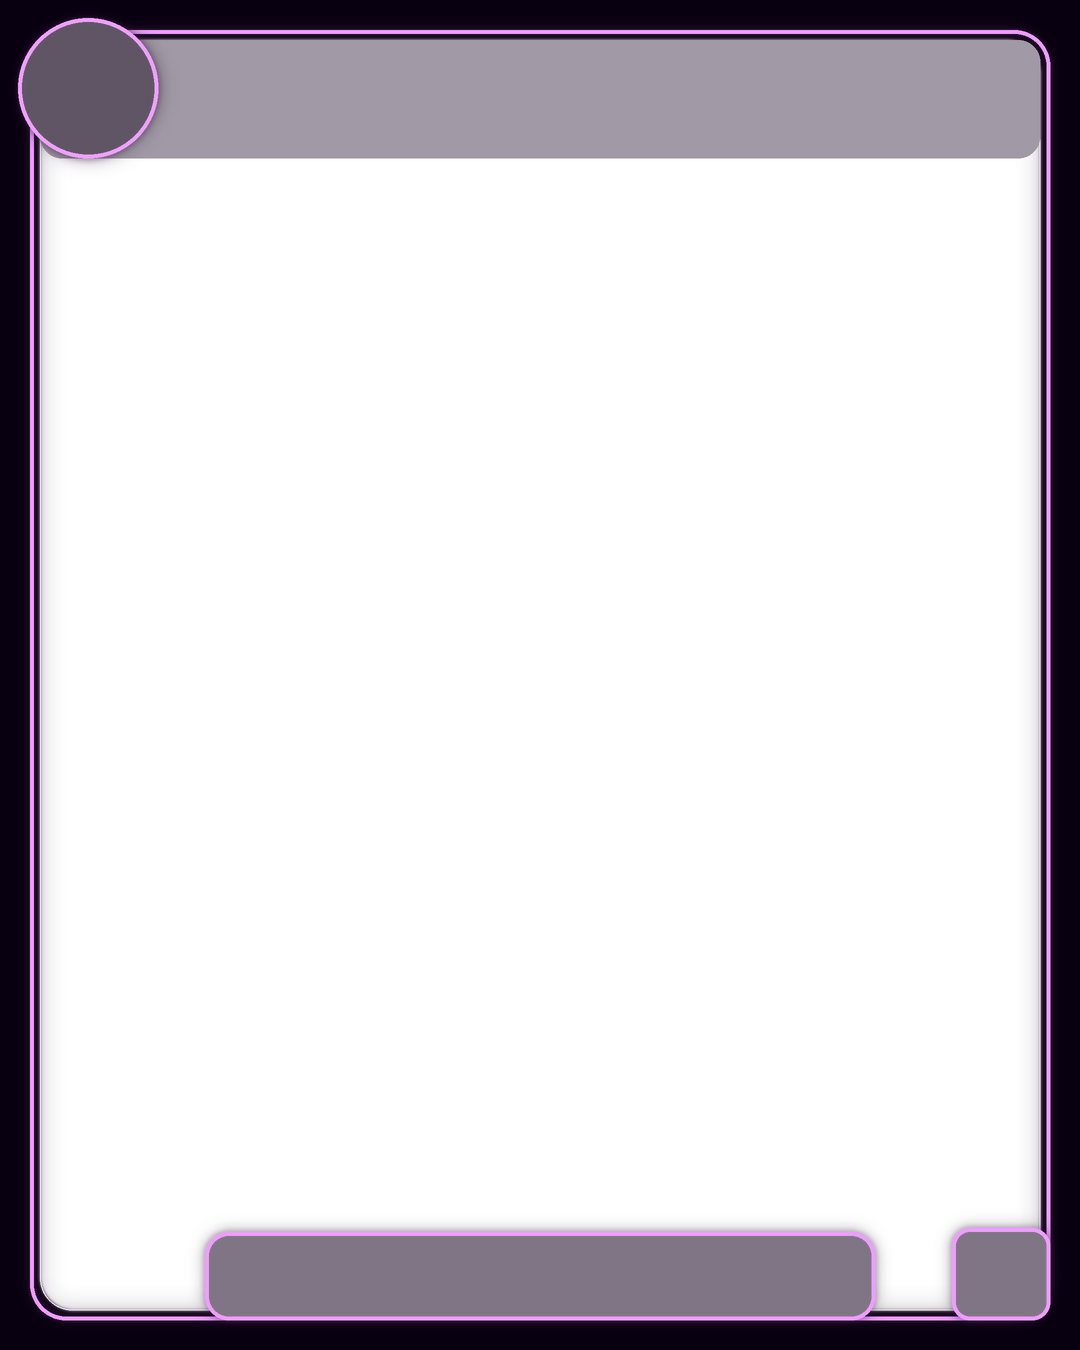
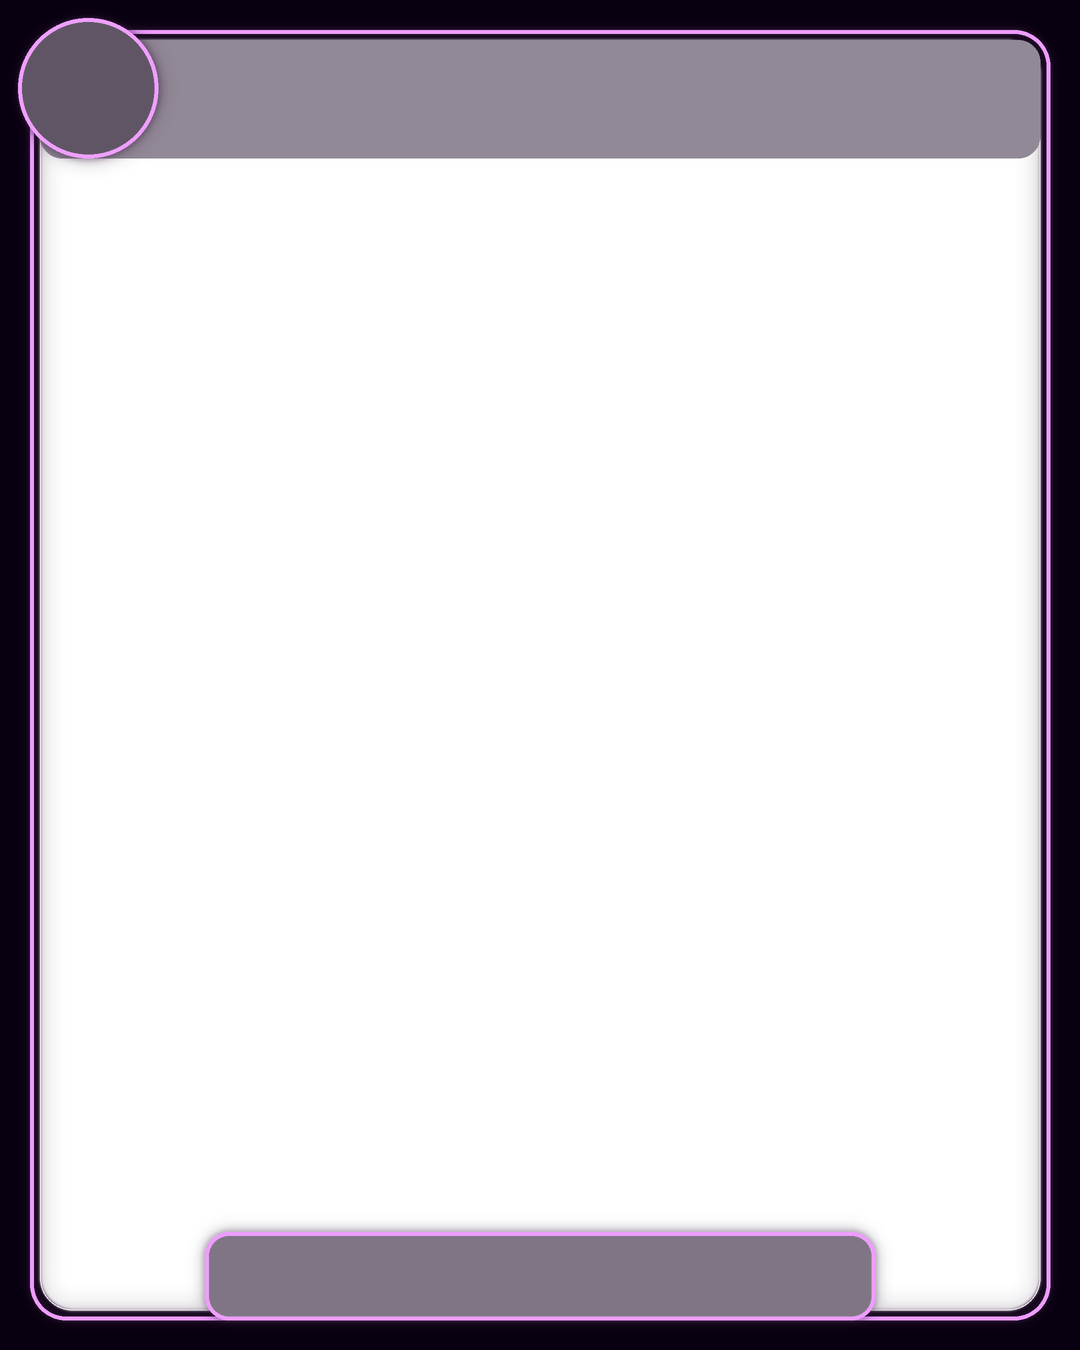
v15 renderer

Changed region(s): [[0.8556, 0.9022, 0.9778, 0.9956]]

diff --git a/includes/photo-uploads.php b/includes/photo-uploads.php
@@ -671,24 +671,6 @@ function photo_render_framed_image($sourcePath, $destPath, $event, $orientation 
         $logoY = $landscape ? 30 : 30;
         $canvas->compositeImage($logo, Imagick::COMPOSITE_OVER, $logoX, $logoY);
 
-        $qr = new Imagick($qrPath);
-        $qrSize = $landscape ? 64 : 60;
-        $qr->resizeImage($qrSize, $qrSize, Imagick::FILTER_POINT, 1, true);
-        $qrPad = 8;
-        $qrHolder = new Imagick();
-        $holderW = $qrSize + ($qrPad * 2);
-        $holderH = $qrSize + ($qrPad * 2);
-        $qrHolder->newImage($holderW, $holderH, new ImagickPixel('transparent'));
-        $holderDraw = new ImagickDraw();
-        $holderDraw->setFillColor(new ImagickPixel('white'));
-        $holderDraw->setStrokeColor(new ImagickPixel('white'));
-        $holderDraw->roundRectangle(0, 0, $holderW - 1, $holderH - 1, 10, 10);
-        $qrHolder->drawImage($holderDraw);
-        $qrHolder->compositeImage($qr, Imagick::COMPOSITE_OVER, $qrPad, $qrPad);
-        $qrX = $landscape ? 1476 : 963;
-        $qrY = $landscape ? 1078 : 1236;
-        $canvas->compositeImage($qrHolder, Imagick::COMPOSITE_OVER, $qrX, $qrY);
-
         $fontBold = photo_imagick_font_path(true);
         $fontRegular = photo_imagick_font_path(false);
 
@@ -696,18 +678,21 @@ function photo_render_framed_image($sourcePath, $destPath, $event, $orientation 
         if ($eventName === '') { $eventName = 'Dance Thru The Decades'; }
         $venueLine = trim((string)($event['venue_name'] ?? $event['venue'] ?? ''));
         $dateLine = photo_event_date_long($event['event_date'] ?? '');
+        $siteUrlText = 'dancethruthedecades.co.uk';
 
         if ($landscape) {
+            photo_imagick_draw_text($canvas, $siteUrlText, 178, 60, $fontBold, 18, '#f7aaff', 'rgba(110,0,170,0.88)', 1, 500);
+
             $titleX = 178;
-            $titleY = 82;
-            $titleMaxW = 470;
+            $titleY = 92;
+            $titleMaxW = 500;
             $titleSize = photo_imagick_fit_font_size($canvas, $eventName, $fontBold, 36, $titleMaxW, 24);
-            photo_imagick_draw_text($canvas, $eventName, $titleX, $titleY, $fontBold, $titleSize, '#ffcf40', 'rgba(80,0,40,0.75)', 1, $titleMaxW);
+            photo_imagick_draw_text($canvas, $eventName, $titleX, $titleY, $fontBold, $titleSize, '#ffcf40', 'rgba(80,0,40,0.78)', 1, $titleMaxW);
 
             $venueText = ($venueLine !== '' ? $venueLine : 'Dance Thru The Decades');
             $dateText = ($dateLine !== '' ? $dateLine : 'TBA');
-            photo_imagick_draw_text($canvas, $venueText, 178, 118, $fontBold, 20, '#ffd977', 'rgba(80,0,40,0.60)', 1, 470);
-            photo_imagick_draw_text($canvas, $dateText, 178, 146, $fontBold, 20, '#ffd977', 'rgba(80,0,40,0.60)', 1, 470);
+            photo_imagick_draw_text($canvas, $venueText, 178, 124, $fontBold, 20, '#ffd977', 'rgba(80,0,40,0.66)', 1, 500);
+            photo_imagick_draw_text($canvas, $dateText, 178, 150, $fontBold, 20, '#ffd977', 'rgba(80,0,40,0.66)', 1, 500);
 
             $pillTopY = 56;
             $pillGap = 14;
@@ -728,15 +713,17 @@ function photo_render_framed_image($sourcePath, $destPath, $event, $orientation 
             photo_imagick_draw_text($canvas, 'Dance Thru The Decades', 800, 1115, $fontBold, 32, '#ffcf40', 'rgba(80,0,40,0.78)', 1, 0, Imagick::ALIGN_CENTER);
             photo_imagick_draw_text($canvas, '60s  •  70s  •  80s  •  90s  •  00s', 800, 1148, $fontBold, 17, '#ffcf40', null, 0, 0, Imagick::ALIGN_CENTER);
         } else {
+            photo_imagick_draw_text($canvas, $siteUrlText, 178, 56, $fontBold, 16, '#f7aaff', 'rgba(110,0,170,0.88)', 1, 420);
+
             $titleX = 178;
-            $titleY = 70;
+            $titleY = 86;
             $titleMaxW = 560;
             $titleSize = photo_imagick_fit_font_size($canvas, $eventName, $fontBold, 32, $titleMaxW, 22);
-            photo_imagick_draw_text($canvas, $eventName, $titleX, $titleY, $fontBold, $titleSize, '#ffcf40', 'rgba(80,0,40,0.75)', 1, $titleMaxW);
-            photo_imagick_draw_text($canvas, ($venueLine !== '' ? $venueLine : 'Dance Thru The Decades'), 178, 104, $fontBold, 20, '#ffd977', 'rgba(80,0,40,0.60)', 1, 560);
-            photo_imagick_draw_text($canvas, ($dateLine !== '' ? $dateLine : 'TBA'), 178, 130, $fontBold, 20, '#ffd977', 'rgba(80,0,40,0.60)', 1, 560);
+            photo_imagick_draw_text($canvas, $eventName, $titleX, $titleY, $fontBold, $titleSize, '#ffcf40', 'rgba(80,0,40,0.78)', 1, $titleMaxW);
+            photo_imagick_draw_text($canvas, ($venueLine !== '' ? $venueLine : 'Dance Thru The Decades'), 178, 118, $fontBold, 20, '#ffd977', 'rgba(80,0,40,0.66)', 1, 560);
+            photo_imagick_draw_text($canvas, ($dateLine !== '' ? $dateLine : 'TBA'), 178, 144, $fontBold, 20, '#ffd977', 'rgba(80,0,40,0.66)', 1, 560);
 
-            $pillTopY = 96;
+            $pillTopY = 56;
             $pillGap = 12;
             $rightInset = 48;
             $eventMaxW = 210;
@@ -762,7 +749,7 @@ function photo_render_framed_image($sourcePath, $destPath, $event, $orientation 
         $canvas->stripImage();
         $written = $canvas->writeImage($destPath);
 
-        foreach ([$photo, $overlay, $logo, $qr, $qrHolder, $canvas] as $obj) {
+        foreach ([$photo, $overlay, $logo, $canvas] as $obj) {
             if ($obj instanceof Imagick) {
                 $obj->clear();
                 $obj->destroy();
